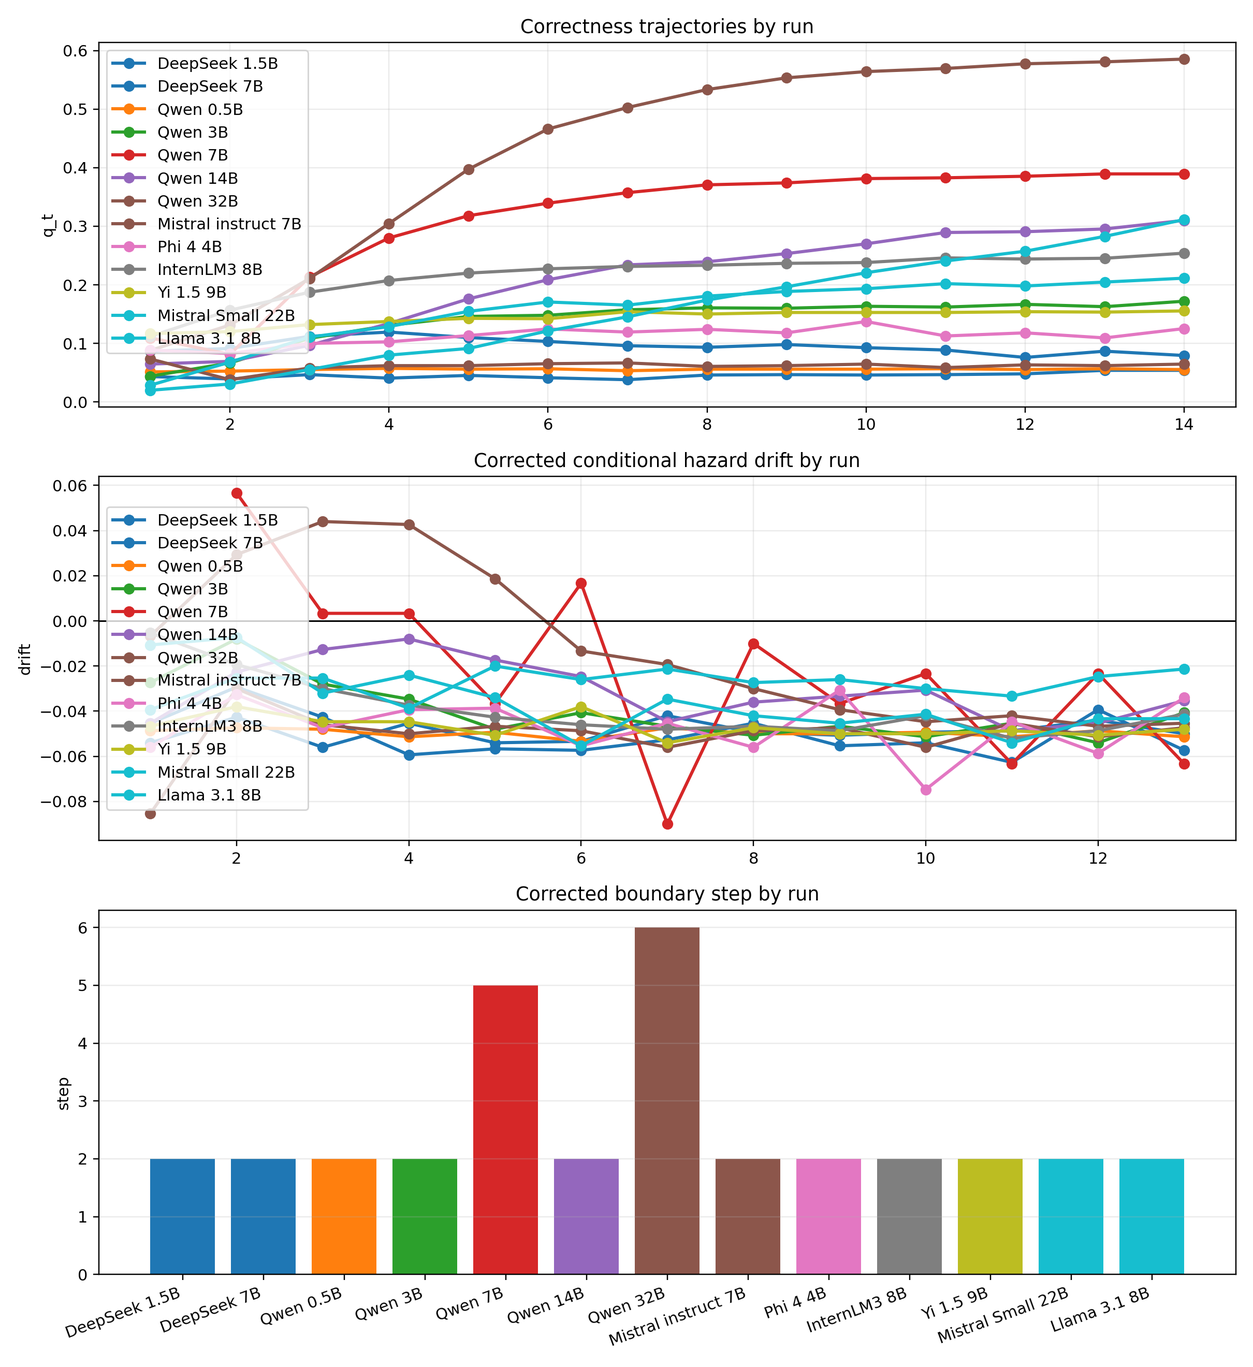
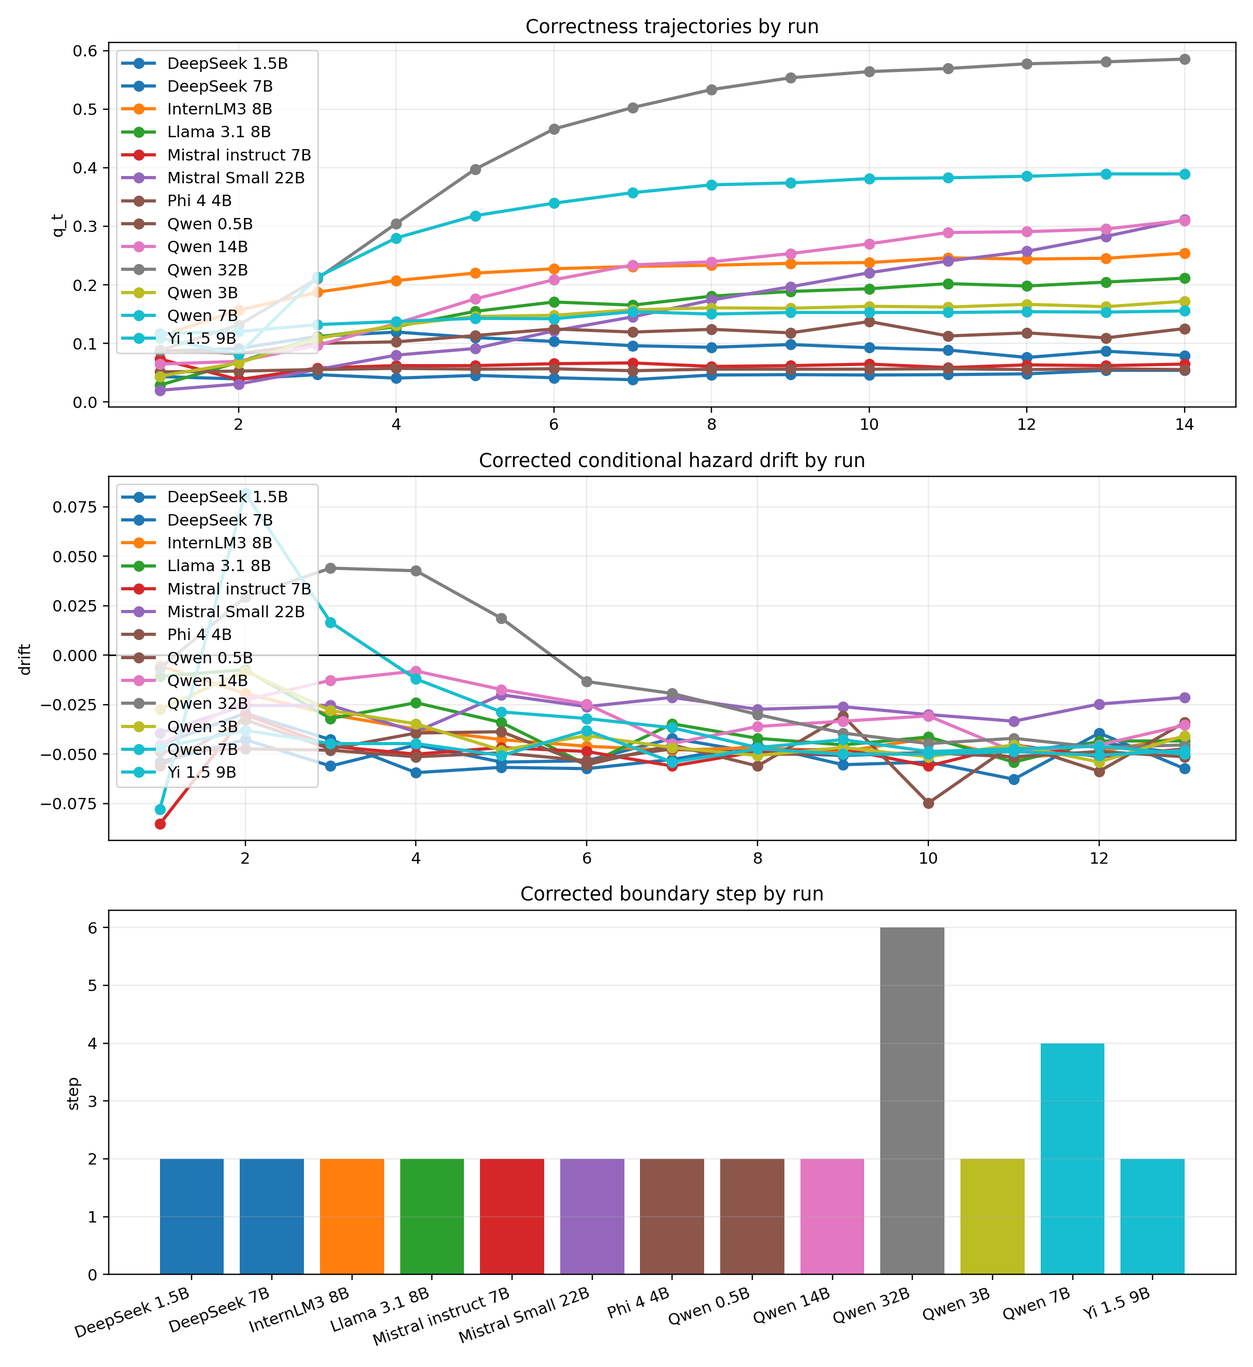
docs: post-audit corrections + regenerate MATH aggregate on repaired cell
- July_1_Checkin: dated correction addendum (canonical headline 75,965/
  7.5495%; impossible 'stopped too late' clause; 50.9% capture caption
  with honest variants incl. 63.66% all-cells; loss-concentration
  correction GSM8K>GPQA>MATH>ARC; train/test split disclosure; 22B
  roster mislabel + 3p1 substitution; union-bound e-process naming;
  label-integrity status; MATH narrative revision).
- Scientific Method reports (both): CONFIRMED-WITH-NAMED-CORRECTIONS
  banners pointing at rigor_audit/01 with the enumerated corrections.
- Startup_Research_Prompt: resolve the three flagged contradictions;
  strike the inverted 'prefer step 1' guidance.
- research/outputs/cross_family/: SUPERSEDED README extending the
  banner to the raw pre-remediation CSVs (3 floor-violating values).
- Relocate _thesis_audit_latecells.py out of the outputs tree ->
  research/thesis_audit_latecells.py (runs from new home; 10/12 cells,
  capture 49.7% mean-of-ratios / 50.41% ratio-of-means post-repair).
- Regenerate _aggregate/math on the repaired 1,500-run cell. FINDING:
  qwen2p5_7b__math boundary is step 4 (weakened support) on full data,
  not the step-5 clear-late reading from the defective 75-run subset;
  MATH late-boundary story is now 32B-only-clear (step 6).

diff --git a/research/thesis_audit_latecells.py b/research/thesis_audit_latecells.py
@@ -1,7 +1,9 @@
 import os
 import pandas as pd, numpy as np
 
-ROOT = os.path.dirname(os.path.abspath(__file__))
+# Relocated out of research/outputs/experiment_matrix/ (audit lever H6):
+# analysis code must not live inside the outputs tree.
+ROOT = os.path.join(os.path.dirname(os.path.abspath(__file__)), "outputs", "experiment_matrix")
 late=[("qwen2p5_3b","gsm8k"),("qwen2p5_7b","gsm8k"),("qwen2p5_7b","math"),("qwen2p5_14b","gsm8k"),
 ("qwen2p5_32b","gsm8k"),("qwen2p5_32b","math"),("mistral_7b_instruct_v0p3","gsm8k"),
 ("internlm3_8b_instruct","gsm8k"),("yi_1p5_9b_chat","gsm8k"),("mistral_small_24b_2409","gsm8k"),

diff --git a/research/outputs/experiment_matrix/_aggregate/math/CROSS_FAMILY_REPORT.md b/research/outputs/experiment_matrix/_aggregate/math/CROSS_FAMILY_REPORT.md
@@ -1,7 +1,7 @@
 # Cross-Family Report
 
 ## Executive Summary
-A clearly late corrected boundary replicates in 2 capable run(s) across 1 family/families: Qwen 7B (step 5); Qwen 32B (step 6). Late-boundary evidence remains confined to a single capable family, so cross-family robustness is not yet established.
+A clearly late corrected boundary replicates in 1 capable run(s) across 1 family/families: Qwen 32B (step 6). An additional 1 run(s) across 1 family/families (Qwen2.5 instruct) add weaker late-boundary support: Qwen 7B (step 4). Late-boundary evidence remains confined to a single capable family, so cross-family robustness is not yet established.
 
 Task IDs align across all 13 runs under the shared GSM8K train split and shuffle seed 17 protocol.
 
@@ -10,34 +10,34 @@ Task IDs align across all 13 runs under the shared GSM8K train split and shuffle
 | --- | --- | --- | --- | --- | --- | --- | --- | --- | --- | --- | --- | --- | --- | --- | --- | --- |
 | DeepSeek 1.5B | DeepSeek-R1 distill | 1.5B | transformers+torch(cuda) | none | 0.0433 | 0.0540 | 13 | 2 | 0.0318 | 0.6611 | 0.1358 | 0.1188 | 0.7041 | 0.2383 | 0.6080 | No late-boundary replication |
 | DeepSeek 7B | DeepSeek-R1 distill | 7B | transformers+torch(cuda) | none | 0.0867 | 0.1193 | 4 | 2 | 0.0582 | 0.5520 | 0.2479 | 0.2248 | 0.8075 | 0.2286 | 0.6058 | No late-boundary replication |
+| InternLM3 8B | InternLM3 | 8B | transformers+torch(cuda) | none | 0.1120 | 0.2540 | 14 | 2 | 0.0272 | 0.0588 | 0.1893 | 0.1284 | 0.6117 | 0.2072 | 0.7463 | No late-boundary replication |
+| Llama 3.1 8B | Llama 3.1 | 8B | transformers+torch(cuda) | none | 0.0287 | 0.2113 | 14 | 2 | 0.0371 | 0.1405 | 0.2811 | 0.2800 | 0.6760 | 0.2109 | 0.7496 | No late-boundary replication |
+| Mistral instruct 7B | Mistral instruct | 7B | transformers+torch(cuda) | none | 0.0733 | 0.0733 | 1 | 2 | 0.0087 | 0.1423 | 0.1490 | 0.0523 | 0.6257 | 0.2209 | 0.7097 | No late-boundary replication |
+| Mistral Small 22B | Mistral Small | 22B | transformers+torch(cuda) | none | 0.0200 | 0.3113 | 14 | 2 | 0.0395 | 0.1047 | 0.3503 | 0.2286 | 0.5479 | 0.1815 | 0.8146 | No late-boundary replication |
+| Phi 4 4B | Phi 4 | 4B | transformers+torch(cuda) | none | 0.0887 | 0.1373 | 10 | 2 | 0.0594 | 0.4521 | 0.2536 | 0.2105 | 0.7399 | 0.2002 | 0.7356 | No late-boundary replication |
 | Qwen 0.5B | Qwen2.5 instruct | 0.5B | transformers+torch(cuda) | none | 0.0513 | 0.0573 | 4 | 2 | 0.0022 | 0.0328 | 0.0532 | 0.0072 | 0.6045 | 0.2361 | 0.6317 | No late-boundary replication |
-| Qwen 3B | Qwen2.5 instruct | 3B | transformers+torch(cuda) | none | 0.0440 | 0.1720 | 14 | 2 | 0.0207 | 0.0915 | 0.2464 | 0.1463 | 0.6250 | 0.2138 | 0.7281 | No late-boundary replication |
-| Qwen 7B | Qwen2.5 instruct | 7B | transformers+torch(cuda) | none | 0.1093 | 0.3893 | 13 | 5 | 0.0425 | 0.0820 | 0.1820 | 0.5093 | 0.5727 | 0.1760 | 0.8202 | Late-boundary replication |
 | Qwen 14B | Qwen2.5 instruct | 14B | transformers+torch(cuda) | none | 0.0647 | 0.3100 | 14 | 2 | 0.0488 | 0.1420 | 0.3824 | 0.3480 | 0.6220 | 0.1319 | 0.8965 | No late-boundary replication |
 | Qwen 32B | Qwen2.5 instruct | 32B | transformers+torch(cuda) | none | 0.0880 | 0.5853 | 14 | 6 | 0.0657 | 0.0210 | 0.2616 | 0.2865 | 0.5345 | 0.1754 | 0.8186 | Late-boundary replication |
-| Mistral instruct 7B | Mistral instruct | 7B | transformers+torch(cuda) | none | 0.0733 | 0.0733 | 1 | 2 | 0.0087 | 0.1423 | 0.1490 | 0.0523 | 0.6257 | 0.2209 | 0.7097 | No late-boundary replication |
-| Phi 4 4B | Phi 4 | 4B | transformers+torch(cuda) | none | 0.0887 | 0.1373 | 10 | 2 | 0.0594 | 0.4521 | 0.2536 | 0.2105 | 0.7399 | 0.2002 | 0.7356 | No late-boundary replication |
-| InternLM3 8B | InternLM3 | 8B | transformers+torch(cuda) | none | 0.1120 | 0.2540 | 14 | 2 | 0.0272 | 0.0588 | 0.1893 | 0.1284 | 0.6117 | 0.2072 | 0.7463 | No late-boundary replication |
+| Qwen 3B | Qwen2.5 instruct | 3B | transformers+torch(cuda) | none | 0.0440 | 0.1720 | 14 | 2 | 0.0207 | 0.0915 | 0.2464 | 0.1463 | 0.6250 | 0.2138 | 0.7281 | No late-boundary replication |
+| Qwen 7B | Qwen2.5 instruct | 7B | transformers+torch(cuda) | none | 0.1093 | 0.3893 | 13 | 4 | 0.0425 | 0.0820 | 0.2113 | 0.2080 | 0.5787 | 0.1918 | 0.7809 | Weakened late-boundary support |
 | Yi 1.5 9B | Yi 1.5 | 9B | transformers+torch(cuda) | none | 0.1167 | 0.1554 | 14 | 2 | 0.0232 | 0.1248 | 0.1953 | 0.0946 | 0.6592 | 0.2242 | 0.7044 | No late-boundary replication |
-| Mistral Small 22B | Mistral Small | 22B | transformers+torch(cuda) | none | 0.0200 | 0.3113 | 14 | 2 | 0.0395 | 0.1047 | 0.3503 | 0.2286 | 0.5479 | 0.1815 | 0.8146 | No late-boundary replication |
-| Llama 3.1 8B | Llama 3.1 | 8B | transformers+torch(cuda) | none | 0.0287 | 0.2113 | 14 | 2 | 0.0371 | 0.1405 | 0.2811 | 0.2800 | 0.6760 | 0.2109 | 0.7496 | No late-boundary replication |
 
 ## Drift Audit
 | Run | Empirical boundary | Corrected boundary | Fitted boundary | Legacy pooled proxy | Mismatch |
 | --- | --- | --- | --- | --- | --- |
 | DeepSeek 1.5B | 2 | 2 | 2 | 2 | no |
 | DeepSeek 7B | 2 | 2 | 3 | 2 | no |
+| InternLM3 8B | 2 | 2 | 6 | 2 | no |
+| Llama 3.1 8B | 2 | 2 | 7 | 2 | no |
+| Mistral instruct 7B | 2 | 2 | 5 | 2 | no |
+| Mistral Small 22B | 2 | 2 | 10 | 2 | no |
+| Phi 4 4B | 2 | 2 | 6 | 2 | no |
 | Qwen 0.5B | 2 | 2 | 3 | 2 | no |
-| Qwen 3B | 2 | 2 | 7 | 2 | no |
-| Qwen 7B | 5 | 5 | 5 | 5 | no |
 | Qwen 14B | 2 | 2 | not observed | 2 | no |
 | Qwen 32B | 6 | 6 | 6 | 6 | no |
-| Mistral instruct 7B | 2 | 2 | 5 | 2 | no |
-| Phi 4 4B | 2 | 2 | 6 | 2 | no |
-| InternLM3 8B | 2 | 2 | 6 | 2 | no |
+| Qwen 3B | 2 | 2 | 7 | 2 | no |
+| Qwen 7B | 4 | 4 | 5 | 4 | no |
 | Yi 1.5 9B | 2 | 2 | 6 | 2 | no |
-| Mistral Small 22B | 2 | 2 | 10 | 2 | no |
-| Llama 3.1 8B | 2 | 2 | 7 | 2 | no |
 
 ## Detector Rankings
 | Run | Detector | Rank | Mean oracle gap | False-late rate |
@@ -48,56 +48,56 @@ Task IDs align across all 13 runs under the shared GSM8K train split and shuffle
 | DeepSeek 7B | oracle | 1 | 0.0000 | 0.000 |
 | DeepSeek 7B | first_answer | 2 | 0.1501 | 0.000 |
 | DeepSeek 7B | e_process | 3 | 0.2248 | 0.759 |
+| InternLM3 8B | oracle | 1 | 0.0000 | 0.000 |
+| InternLM3 8B | first_answer | 2 | 0.1037 | 0.000 |
+| InternLM3 8B | e_process | 3 | 0.1284 | 0.869 |
+| Llama 3.1 8B | oracle | 1 | 0.0000 | 0.000 |
+| Llama 3.1 8B | first_answer | 2 | 0.2087 | 0.000 |
+| Llama 3.1 8B | e_process | 3 | 0.2800 | 0.801 |
+| Mistral instruct 7B | first_answer | 1 | -0.0330 | 0.000 |
+| Mistral instruct 7B | oracle | 2 | 0.0000 | 0.000 |
+| Mistral instruct 7B | e_process | 3 | 0.0523 | 0.000 |
+| Mistral Small 22B | oracle | 1 | 0.0000 | 0.000 |
+| Mistral Small 22B | first_answer | 2 | 0.1892 | 0.000 |
+| Mistral Small 22B | e_process | 3 | 0.2286 | 0.000 |
+| Phi 4 4B | oracle | 1 | 0.0000 | 0.000 |
+| Phi 4 4B | first_answer | 2 | 0.1265 | 0.000 |
+| Phi 4 4B | e_process | 3 | 0.2105 | 0.618 |
 | Qwen 0.5B | first_answer | 1 | -0.0415 | 0.000 |
 | Qwen 0.5B | oracle | 2 | 0.0000 | 0.000 |
 | Qwen 0.5B | e_process | 3 | 0.0072 | 0.000 |
-| Qwen 3B | oracle | 1 | 0.0000 | 0.000 |
-| Qwen 3B | first_answer | 2 | 0.1030 | 0.000 |
-| Qwen 3B | e_process | 3 | 0.1463 | 0.856 |
-| Qwen 7B | oracle | 1 | 0.0000 | 0.000 |
-| Qwen 7B | hazard_drift | 2 | 0.1820 | 0.667 |
-| Qwen 7B | answer_stability | 3 | 0.2360 | 1.000 |
 | Qwen 14B | oracle | 1 | 0.0000 | 0.000 |
 | Qwen 14B | first_answer | 2 | 0.2173 | 0.000 |
 | Qwen 14B | verifier_first_correct | 3 | 0.3225 | 0.574 |
 | Qwen 32B | oracle | 1 | 0.0000 | 0.000 |
 | Qwen 32B | verifier_first_correct | 2 | 0.2306 | 0.395 |
 | Qwen 32B | hazard_drift | 3 | 0.2616 | 0.644 |
-| Mistral instruct 7B | first_answer | 1 | -0.0330 | 0.000 |
-| Mistral instruct 7B | oracle | 2 | 0.0000 | 0.000 |
-| Mistral instruct 7B | e_process | 3 | 0.0523 | 0.000 |
-| Phi 4 4B | oracle | 1 | 0.0000 | 0.000 |
-| Phi 4 4B | first_answer | 2 | 0.1265 | 0.000 |
-| Phi 4 4B | e_process | 3 | 0.2105 | 0.618 |
-| InternLM3 8B | oracle | 1 | 0.0000 | 0.000 |
-| InternLM3 8B | first_answer | 2 | 0.1037 | 0.000 |
-| InternLM3 8B | e_process | 3 | 0.1284 | 0.869 |
+| Qwen 3B | oracle | 1 | 0.0000 | 0.000 |
+| Qwen 3B | first_answer | 2 | 0.1030 | 0.000 |
+| Qwen 3B | e_process | 3 | 0.1463 | 0.856 |
+| Qwen 7B | oracle | 1 | 0.0000 | 0.000 |
+| Qwen 7B | e_process | 2 | 0.2080 | 0.897 |
+| Qwen 7B | first_answer | 3 | 0.2087 | 0.000 |
 | Yi 1.5 9B | oracle | 1 | 0.0000 | 0.000 |
 | Yi 1.5 9B | first_answer | 2 | 0.0479 | 0.000 |
 | Yi 1.5 9B | e_process | 3 | 0.0946 | 0.000 |
-| Mistral Small 22B | oracle | 1 | 0.0000 | 0.000 |
-| Mistral Small 22B | first_answer | 2 | 0.1892 | 0.000 |
-| Mistral Small 22B | e_process | 3 | 0.2286 | 0.000 |
-| Llama 3.1 8B | oracle | 1 | 0.0000 | 0.000 |
-| Llama 3.1 8B | first_answer | 2 | 0.2087 | 0.000 |
-| Llama 3.1 8B | e_process | 3 | 0.2800 | 0.801 |
 
 ## Signal Comparison
 | Run | Strongest correctness signal | Strongest corruption signal |
 | --- | --- | --- |
 | DeepSeek 1.5B | hidden-state cosine drift (hidden_cosine_shift, coeff=-0.804) | verbosity-confidence proxy (verbose_confidence_proxy, coeff=0.209) |
 | DeepSeek 7B | entropy volatility (entropy_std, coeff=0.586) | entropy volatility (entropy_std, coeff=0.664) |
+| InternLM3 8B | entropy volatility (entropy_std, coeff=0.527) | hidden-state L2 drift (hidden_l2_shift, coeff=0.870) |
+| Llama 3.1 8B | self-reported confidence (confidence, coeff=1.299) | answer revision flag (answer_changed, coeff=0.575) |
+| Mistral instruct 7B | self-reported confidence (confidence, coeff=0.790) | lexical echo (lexical_echo, coeff=0.664) |
+| Mistral Small 22B | self-reported confidence (confidence, coeff=1.099) | answer revision flag (answer_changed, coeff=0.764) |
+| Phi 4 4B | self-reported confidence (confidence, coeff=0.884) | hidden-state L2 drift (hidden_l2_shift, coeff=0.513) |
 | Qwen 0.5B | verbosity-confidence proxy (verbose_confidence_proxy, coeff=-0.591) | hidden-state L2 drift (hidden_l2_shift, coeff=1.852) |
-| Qwen 3B | self-reported confidence (confidence, coeff=1.093) | token entropy (entropy_mean, coeff=0.636) |
-| Qwen 7B | self-reported confidence (confidence, coeff=2.596) | answer revision flag (answer_changed, coeff=0.993) |
 | Qwen 14B | self-reported confidence (confidence, coeff=1.855) | hidden-state L2 drift (hidden_l2_shift, coeff=1.010) |
 | Qwen 32B | self-reported confidence (confidence, coeff=1.810) | answer revision flag (answer_changed, coeff=0.663) |
-| Mistral instruct 7B | self-reported confidence (confidence, coeff=0.790) | lexical echo (lexical_echo, coeff=0.664) |
-| Phi 4 4B | self-reported confidence (confidence, coeff=0.884) | hidden-state L2 drift (hidden_l2_shift, coeff=0.513) |
-| InternLM3 8B | entropy volatility (entropy_std, coeff=0.527) | hidden-state L2 drift (hidden_l2_shift, coeff=0.870) |
+| Qwen 3B | self-reported confidence (confidence, coeff=1.093) | token entropy (entropy_mean, coeff=0.636) |
+| Qwen 7B | self-reported confidence (confidence, coeff=1.353) | answer revision flag (answer_changed, coeff=0.761) |
 | Yi 1.5 9B | self-reported confidence (confidence, coeff=1.349) | hidden-state L2 drift (hidden_l2_shift, coeff=0.618) |
-| Mistral Small 22B | self-reported confidence (confidence, coeff=1.099) | answer revision flag (answer_changed, coeff=0.764) |
-| Llama 3.1 8B | self-reported confidence (confidence, coeff=1.299) | answer revision flag (answer_changed, coeff=0.575) |
 
 ## Figures
 ![Cross-family boundary comparison](outputs/cross_family/cross_family_boundary_comparison.png)

diff --git a/ThesisDocs/Startup_Research_Prompt.md b/ThesisDocs/Startup_Research_Prompt.md
@@ -68,8 +68,10 @@ All results below are **full-precision (bf16)**, run via `research/run_experimen
 
 Two internal inconsistencies surfaced while preparing this prompt. Do not silently pick a number and move on — resolve them, or explicitly scope which experimental convention each number belongs to, before either goes in front of an investor.
 
+> **✅ RESOLVED (2026-07-09 rigor audit — see `ThesisDocs/rigor_audit/00_repo_state_and_staleness.md` §B):** all three items below are closed. Qwen-7B's boundary is **step 5** (the step-1 reading came from a pre-fix `stakes_sweep_report.md`, regenerated in `8ce9b9f`); DeepSeek-R1-Distill's boundary is **step 2** (the step-1 sources were stale pre-remediation artifacts from `research/outputs/cross_family/`, 2026-06-12); the stakes prose-vs-table contradiction was fixed in `8ce9b9f`. The bullets are preserved below as history — do not act on their guidance.
+
 - **Qwen-7B's boundary is reported as both step 5 and step 1.** The capability-ladder narrative (§0.2.2, corroborated across `project-overthinking-state` notes and `July_1_Checkin.md`) says step 5. But `research/outputs/real_traces_bf16_ladder/stakes_sweep_report.md`'s own **c=0 baseline row** for `qwen2p5_7b` shows **T\* = 1** (14B and 32B show T\*=5 at the same c=0 setting in the same table — only 7B looks different). The likely explanation is a differing default stakes/λ convention between the main experiment-matrix pipeline and this later ad-hoc sweep script, not a factual contradiction — **but this must be confirmed by inspecting both scripts' actual default parameters, not assumed.**
-- **DeepSeek-R1-Distill's boundary is reported as both step 2 and step 1.** The original draft of this prompt asserted step 2; `research/outputs/real_traces_bf16_ladder/prompted_vs_distilled_report.md` and the cross-family memory note ("Reasoning-distill ... stay early (step 1)") both say step 1. Prefer step 1 unless you find a source that justifies step 2, and note which script/config produced whichever number you cite.
+- **DeepSeek-R1-Distill's boundary is reported as both step 2 and step 1.** The original draft of this prompt asserted step 2; `research/outputs/real_traces_bf16_ladder/prompted_vs_distilled_report.md` and the cross-family memory note ("Reasoning-distill ... stay early (step 1)") both say step 1. ~~Prefer step 1 unless you find a source that justifies step 2~~ **[Resolved: step 2 is correct — the step-1 sources were stale pre-remediation artifacts; see the resolution note above.]** Note which script/config produced whichever number you cite.
 - **`stakes_sweep_report.md`'s own prose contradicts its own data table.** Its "Key Insights" text claims the boundary "shifts earlier"/"to the left" as the penalty $c$ increases. Its data table shows the opposite — the boundary moves later/right as $c$ increases (consistent with §0.2.7 above and with basic incentive logic). Do not repeat the report's prose claim; trust the table.
 
 **Module 0 deliverable:** a short reconciliation memo stating, for every headline number that ends up in the pitch, exactly which script/commit/config produced it. If you can't reconcile a number in the time available, mark it "directionally correct, exact value pending re-verification" rather than asserting false precision.

diff --git a/ThesisDocs/July_1_Checkin.md b/ThesisDocs/July_1_Checkin.md
@@ -3,6 +3,17 @@
 
 This guide is a self-explanatory walkthrough of our research. It is structured to help explain the project's core concepts, terminology, data, and performance results to anyone from scratch.
 
+> **⚠ Post-audit corrections (2026-07-10, from `ThesisDocs/rigor_audit/`; the body below is preserved as written for the July 1 meeting):**
+> 1. **Headline basis changed.** The `qwen2p5_7b__math` cell's detector stage covered only 75/1,500 collected runs; after the approved re-analysis (commit `57cd2f5`), the canonical breakdown is **75,965 runs: 68,095 wins (89.64%) / 2,135 ties (2.81%) / 5,735 losses (7.55%)** — cite these instead of Part 6's 74,540/89.59/2.83/7.57.
+> 2. **Part 6's "stopped too late" loss clause is impossible.** Under `utility = correct − 0.05·(step−1)` with `never_stop` at the horizon, a strict loss can only be a **missed late correction** (stop-step answer wrong, final answer correct — verified for 5,646/5,646 pre-repair losses; `rigor_audit/02` §1). Losses are never "stopped too late."
+> 3. **Part 5's 50.9% oracle-capture needs its caption.** It reproduces only as a mean over a hardcoded 12-late-cell selection (now `research/thesis_audit_latecells.py`) that included the then-defective cell. Honest variants: **50.41%** (12 late cells, repaired), 48.84% (11 cells), **63.66% all-cells run-pooled** (per-dataset 52.4/64.6/70.1/69.2). Always state slice + aggregation.
+> 4. **Loss concentration correction:** losses do **not** concentrate in "GSM8K/MATH vs the rest." Actual per-dataset loss rates: GSM8K 11.23% > GPQA 7.37% > MATH 6.92% > ARC 4.71% (pre-repair; MATH 6.87% post-repair). The old reading came from win-rate complements, which mix ties into MATH's complement. Losses also rise monotonically with temperature (6.95%/7.51%/8.27% at 0.1/0.6/1.0).
+> 5. **Dataset splits are asymmetric and now disclosed:** GSM8K and GPQA runs use the **train** split; MATH and ARC use **test** (per `matrix_manifest.json` command strings).
+> 6. **Part 3 roster corrections:** `mistral_small_24b_2409` is a **22B**-parameter model (mislabeled 24B), substituted after `mistral_small_3p1_24b` failed to load (vision-language checkpoint in a text-only harness); collected-run totals included 24 phantom run_ids from corruption fragments (75,996 → 75,972 well-formed).
+> 7. **Naming:** the "e-process" detector is a per-step **union-bound e-value grid**, not a time-uniform supermartingale — no optional-stopping validity is claimed (`rigor_audit/04` P10).
+> 8. Label integrity is now verified: on-disk `correct` labels agree with the audited grader to within 1 row in ~799K (fixed by `ce0167c`), and **0 of the win/loss/tie verdicts move** under any known label correction.
+> 9. **MATH narrative revision (post-repair):** on the full 1,500-run cell, `qwen2p5_7b__math`'s boundary is **step 4 with "Weakened late-boundary support"** — not the step 5 clear-late reading derived from the defective 75-run subset. The MATH story is now "**Qwen-32B-only clear late boundary (step 6); Qwen-7B weakened (step 4)**" (regenerated `_aggregate/math/CROSS_FAMILY_REPORT.md`).
+
 ---
 
 ## 📌 Part 1: The Core Problem (What is "LLM Overthinking"?)

diff --git a/ThesisDocs/Scientific_Method_Deep_Dive_Report.md b/ThesisDocs/Scientific_Method_Deep_Dive_Report.md
@@ -1,6 +1,8 @@
 # Scientific Method Deep Dive Report: Variable Isolation & Empirical Breakdowns
 *Date: July 1, 2026*
 
+> **⚠ AUDIT RULING (2026-07-09): CONFIRMED-WITH-NAMED-CORRECTIONS — read alongside `ThesisDocs/rigor_audit/01_scientific_method_adversarial_verification.md` §Supersession.** Named corrections: the Factor 6 table was hand-patched at authoring time against a source that then produced Step 1/Step 1 (values happen to match current data; provenance was misstated); Factor 2's held-constant list omits real deltas; Factor 4 mislabels 13-model matrix aggregates as a Qwen-ladder result and bundles the max-steps horizon change; Factor 5 shows 1 of 3 swept models. Prompted-vs-distilled (Factor 6) is **NOT CONTROLLABLE** as an isolated factor — present it as a suggestive case comparison. Never regenerated after `8ce9b9f`/`074bc70`; boundary values spot-verified numerically current.
+
 This report presents a thorough, detailed deep dive into how our research pipeline strictly follows the scientific method of **factor isolation** (ceteris paribus). It provides exact empirical data breakdowns by independent variables (Model Scale, Precision, Temperature, Dataset Type, Stakes, and Reasoning Paradigm) and a forensic failure analysis of early stopping.
 
 ---

diff --git a/ThesisDocs/Scientific_Method_Verification_Report.md b/ThesisDocs/Scientific_Method_Verification_Report.md
@@ -1,6 +1,8 @@
 # Scientific Method Verification & Deep Analysis Report
 *Meeting Date: July 1, 2026*
 
+> **⚠ AUDIT RULING (2026-07-09): CONFIRMED-WITH-NAMED-CORRECTIONS — read alongside `ThesisDocs/rigor_audit/01_scientific_method_adversarial_verification.md` §Supersession.** Named corrections: the ladder-hardware "NVIDIA L4" claim is false (≈61 GB allocation traces); §1.2 overstates bf16-vs-4-bit isolation (the two runs differ in task count, code vintage, hardware, and batch size — the *conclusion* survives three robustness checks, the isolation claim as written does not); the failure-mode taxonomy here generalizes 2 single-cell anecdotes and is superseded by the full-population taxonomy in `rigor_audit/02`. This document was never regenerated after fixes `8ce9b9f`/`074bc70`; its boundary tables were spot-verified numerically current.
+
 This document serves as a comprehensive presentation guide and scientific report outlining how our research methodology adheres strictly to the scientific method, the results of our full-precision capability-ladder experiments, and deep theoretical insights explaining model behaviors under temperature variations, dataset domains, and failure cases.
 
 ---

diff --git a/research/outputs/cross_family/README_SUPERSEDED.md b/research/outputs/cross_family/README_SUPERSEDED.md
@@ -1,0 +1,14 @@
+# ⚠ SUPERSEDED DATA — do not cite
+
+Everything in this directory dates to **2026-06-12**, before the 2026-06-20 audit
+remediation (`ef45dda`/`6f832ea`). In particular `cross_family_summary.csv` contains
+**pre-floor boundary values (`corrected_boundary_step = 1.0`)** for
+`deepseek_r1_distill_1p5b`, `deepseek_r1_distill_7b`, and `phi_4_mini_instruct` that
+violate the t≥2 decision floor and were the source of a documented downstream
+contradiction (see `ThesisDocs/rigor_audit/00_repo_state_and_staleness.md` §B3).
+
+Current cross-family results live under
+`research/outputs/experiment_matrix/_aggregate/{dataset}/`. The narrative report for
+this stale tree (`research/CROSS_FAMILY_REPORT.md`) has carried a SUPERSEDED banner
+since commit `9819ee2`; this README extends that banner to the raw CSVs, which
+previously carried no warning of their own.
